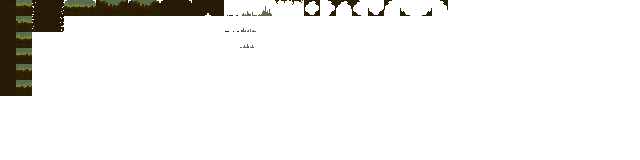
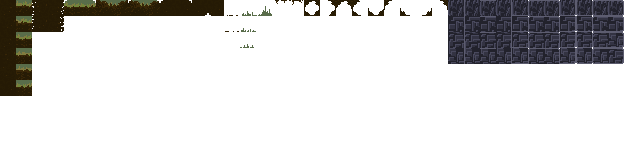
mines

Changed region(s): [[0.6875, 0.0, 1.0, 0.4062]]

diff --git a/client/js/src/world/templates/grassy.js b/client/js/src/world/templates/grassy.js
@@ -141,7 +141,7 @@ exports.Grassy.prototype = {
         Width = (Hills[i+1] - X);
       }
       Height = Math.floor(Width/this.Random(4, 8));
-      this.makeHill(x + X, 250, Width, Height, mapWidth, mapHeight);
+      this.makeHill(x + X, y, Width, Height, mapWidth, mapHeight);
     }
     console.log(Hills);
   },
@@ -155,22 +155,96 @@ exports.Grassy.prototype = {
     var X = [];
     var L = 0;
     var R = 0;
-    Length[0] = this.Random(1, Math.floor(width/10));
+    Length[0] = this.Random(1, Math.floor(width/20) - 10);
     X[0] = this.Random(height, width - Length[0] - height);
     //this.makeTerrain(X[0] + x, y - height, Length[0], 1, mapWidth, mapHeight, 1);
     for (var i = 1; i < height; i++) {    
       L = this.Random(2 * height - 2 * i, X[i - 1] - 1);
-      R = this.Random(X[i - 1] + Length[i - 1], width - 2 * height + 2 * i);
-      console.log(y + ' ' + height);
+      R = this.Random(X[i - 1] + Length[i - 1] + 1, width - 2 * height + 2 * i - 1);
+      //console.log(y + ' ' + height);
       Length[i] = R - L;
       X[i] = L;
       this.makeTerrain(X[i] + x, y - height + i, Length[i], 1, mapWidth, mapHeight, 1);
-      console.log('step ' + X[i] + ' ' + Length[i]);
+      //console.log('step ' + X[i] + ' ' + Length[i]);
     }
-    console.log('Hill made ' + x + ' ' + y + ' ' + width + ' ' + height);
+    //console.log('Hill made ' + x + ' ' + y + ' ' + width + ' ' + height);
   },
-  outcroppings: function outcroppings() {
-
+  outcroppings: function outcroppings(x, y, width, height, mapWidth, mapHeight) {
+    var Rocks = [];
+    Rocks = this.randomSpacing(width, 180, 70, 20, 20);
+    for (var i = 0; i < Rocks.length; i++) {
+      this.boulders(x + Rocks[i], y, mapWidth, mapHeight);
+    }
+  },
+  boulders: function boulders(x, y, mapWidth, mapHeight) {
+    var Rock = [];
+    var Pebble = [];
+    var rockWidth = 0;
+    var rockHeight = 0;
+    Rock = this.randomSpacing(48, 8, 2, 1, 1);
+    for (var i = 0; i < Rock.length; i++) {
+      rockWidth = this.Random(3,7);
+      rockHeight = this.Random(2,12 - rockWidth);
+      this.boulder(x + Rock[i], y, rockWidth, rockHeight, mapWidth, mapHeight);
+    }
+    Pebble = this.randomSpacing(48, 8, 2, 1, 1);
+    for (var i = 0; i < Pebble.length; i++) {
+      rockWidth = this.Random(1,2);
+      rockHeight = this.Random(1,rockWidth);
+      this.boulder(x + Pebble[i], y, rockWidth, rockHeight, mapWidth, mapHeight);
+    }
+  },
+  boulder: function boulder(x, y, width, height, mapWidth, mapHeight) {
+    var rockObject = {};
+    var Ground = 0;
+    for (var i = 0; i < width; i++) {
+      var test = 0;
+      for (var j = 0; j < mapHeight; j++) {
+        if (this.map[x + i + j * mapWidth] !== 0) {
+          if (Ground < j) {
+            Ground = j;
+            //console.log('BOOM!!!!!');
+          }
+          //console.log(j + ' ' + Ground);
+          test = j;
+          break;
+        }
+      }
+      console.log(test);
+    }
+    rockObject = this.makeFeature(x, Ground - height, width, height, 0, 0, 0, 0, 0, 2, 0);
+    this.mapFeatures.push(rockObject);
+    this.drawBoulder(x, Ground - height, width, height, mapWidth, mapHeight);
+    console.log('Boulder at: ' + x + ' ' + Ground);
+  },
+  pebbles: function pebbles(x, y, mapWidth, mapHeight) {
+    //
+  },
+  drawBoulder: function drawBoulder(x, y, width, height, mapWidth, mapHeight) {
+    for (var i = 0; i < width; i++) {
+      for (var j = 0; j < height; j++) {
+        if (this.map[x + i + mapWidth * (y + j)] === 0) {
+          var R = this.Random(0,3);
+          if (width === 1) {
+            this.map[x + i + mapWidth * (y + j)] = 29 + R * 40;
+          } else {
+            if (i === 0 && j === 0) {
+              this.map[x + i + mapWidth * (y + j)] = 34 + R * 40;
+            } else if (i === width - 1 && j === 0) {
+              this.map[x + i + mapWidth * (y + j)] = 35 + R * 40;
+            } else if (j === 0) {
+              this.map[x + i + mapWidth * (y + j)] = 31 + R * 40;
+            } else if (i === 0) {
+              this.map[x + i + mapWidth * (y + j)] = 30 + R * 40;
+            } else if (i === width - 1) {
+              this.map[x + i + mapWidth * (y + j)] = 32 + R * 40;
+            } else {
+              this.map[x + i + mapWidth * (y + j)] = 29 + R * 40;
+            }
+          }
+        }
+      }
+    }
   },
   pits: function pits() {
 
@@ -182,9 +256,10 @@ exports.Grassy.prototype = {
       this.map[i] = 0;
     }
     console.log('DONESIES CLEARING');
-    this.makeHorizon(0, 0, mapWidth, mapHeight, mapWidth, mapHeight);
-    this.makeTerrain(0, 250, mapWidth, 50, mapWidth, mapHeight, 1);
+    this.makeHorizon(0, 250, mapWidth, mapHeight, mapWidth, mapHeight);
+    this.makeTerrain(0, 250, mapWidth, mapHeight - 250, mapWidth, mapHeight, 1);
     this.writeTiles(mapWidth, mapHeight);
+    this.outcroppings(0, 250, mapWidth, mapHeight, mapWidth, mapHeight);
     this.setMap(mapWidth, mapHeight,this.maps.length + 1,'level');
   },
   setMap: function setMap(mapWidth, mapHeight, id, type){

diff --git a/client/js/src/game.js b/client/js/src/game.js
@@ -45,13 +45,13 @@ function Game() {
 
 var gameBase = {
 	create: function create() {
-		this.game.stage.backgroundColor = '#003399';
+		this.game.stage.backgroundColor = '#132255';
 		// enable frames manipulation & tracking
 		this.game.time.advancedTiming = true;
 		// enable physics
 		this.game.physics.startSystem(Phaser.Physics.ARCADE);
 		this.game.physics.arcade.OVERLAP_BIAS = 10;
-    this.game.physics.arcade.TILE_BIAS = 100;
+    this.game.physics.arcade.TILE_BIAS = 10;
 		this.monsterGroup = this.game.add.group();
 		this.boundsGroup = this.game.add.group();
 		this.menuGroup = this.game.add.group();

diff --git a/client/js/src/states/preloader.js b/client/js/src/states/preloader.js
@@ -15,7 +15,8 @@ Preloader.prototype = {
     // misc
     this.world = new gameWorld.World();
     this.world.create();
-    this.game.load.image('tiles-1','assets/grassy_terrain_tiles.png');
+    this.game.load.image('tiles-1','assets/tiles-1.png');
+    // this.game.load.image('tiles-1','assets/grassy_terrain_tiles.png');
     this.game.load.image('overlay', 'assets/overlay.png');
     this.game.load.image('huts', 'assets/huts.png');
     this.game.load.image('item', 'assets/item.png');

diff --git a/client/js/src/world/world.js b/client/js/src/world/world.js
@@ -36,9 +36,9 @@ exports.World.prototype = {
 			exits: []
 		};
 		//level
-		grassy.generate(width,height,type);
+		mines.generate(width,height,type);
 		// push and clear
-		mapWrap.map.push(grassy.mapData);
+		mapWrap.map.push(mines.mapData);
 		// mapWrap.monsters = mines.monsters;
   //   if(type === 'level'){
   //     var doorX = mines.rooms[id].x;
